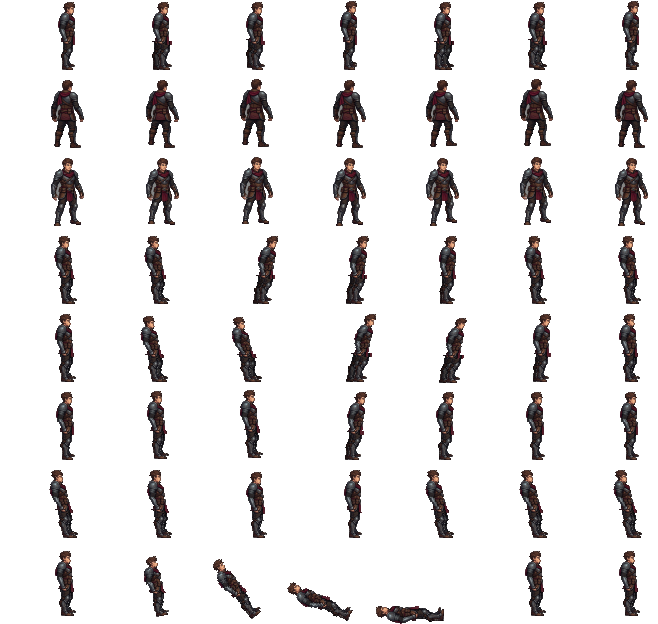
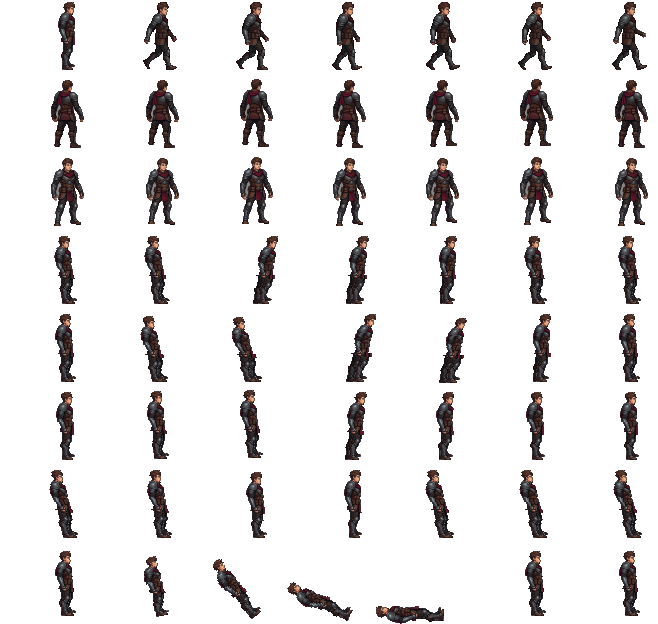
A drawn walk for the Warrior, and the trick that got it
The composed profile walk slid each leg as a rigid block -- no knee, no arm
swing. That was the right trade at 34px, where a knee bend is one pixel of
shading, but at 68px it reads as skating, and no amount of tuning makes a rigid
block walk. Giving the leg a real knee procedurally was tried first and failed
visibly: rotating a chunky 8px boot through 30-46 degrees shreds it, even with a
lossless three-shear, and both legs rotating produced a mess of overlapping feet.

So these six frames are drawn, not composed -- and the way they were got is the
part worth keeping. Generation reliably refuses to choreograph a walk: asked for
walk frames it returns variations of one stance, which is what happened the last
time this was attempted. The fix is the same principle that fixed attack arcs,
applied to legs: hand it the poses instead of asking it to invent them. A
six-frame stick-figure guide with the exact joint angles turns choreography,
which it is bad at, into copying, which it is good at.

The guide is generated from the gait table, near limbs black and far limbs grey,
with each pose dropped until its lower foot touches a common ground line -- so
the pelvis bob falls out of the geometry rather than being a number somebody
guessed.

The design held: same hair, face, pauldron, red scarf, belt pouches and boots,
and the six figures came back within 5px of one height.

Frames are registered on the TORSO rather than the bounding box. A box moves
[…]

diff --git a/tools/build_hero_directions.py b/tools/build_hero_directions.py
@@ -194,6 +194,39 @@ def side_stance(a, hip, hem, pad, size, near=(0, 0), far=(0, 0), body_off=(0, 0)
     ], size, pad)
 
 
+def authored_walk(hero, pad, size):
+    """Six drawn walk frames, if they exist, in place of the composed ones.
+
+    The composed profile walk slides each leg as a rigid block -- no knee, no arm
+    swing. That is a shuffle, and no amount of tuning makes a rigid block walk.
+    Where real frames have been drawn for a hero they are used instead, dropped
+    onto the same canvas and origin as everything else so the rest of the sheet
+    does not care where they came from.
+    """
+    path = f'{SRC}/{hero}_walkside.png'
+    if not os.path.isfile(path):
+        return None
+    im = Image.open(path).convert('RGBA')
+    cw = im.size[0] // 6
+    H, W = size
+    out = []
+    for i in range(6):
+        cell = np.array(im.crop((i * cw, 0, (i + 1) * cw, im.size[1])))
+        f = np.zeros((H, W, 4), np.uint8)
+        ys, xs = np.where(cell[:, :, 3] > 0)
+        # bottom-align on the canvas ground line, centre horizontally
+        oy = (pad + 68 - 1) - ys.max()
+        ox = (W - cw) // 2
+        ny, nx = ys + oy, xs + ox
+        ok = (ny >= 0) & (ny < H) & (nx >= 0) & (nx < W)
+        f[ny[ok], nx[ok]] = cell[ys[ok], xs[ok]]
+        # Drawn frames get the same pinhole repair as composed ones -- a
+        # generated figure can enclose a few transparent pixels between an arm
+        # and the body just as readily as a cut-up one can.
+        out.append(fill_notches(f))
+    return out
+
+
 def side_frames(a, hip, hem, pad, size):
     """Profile: stamp the one drawn leg twice, fore and aft."""
     S = STRIDE
@@ -448,8 +481,12 @@ def build(hero):
     for d in ['side', 'up', 'down']:
         a = art[d]
         size = (a.shape[0] + pad * 2, a.shape[1] + pad * 2)
-        rows.append(('view:' + d,
-                     (side_frames if d == 'side' else frontal_frames)(a, hip, hem, pad, size)))
+        fr = (side_frames if d == 'side' else frontal_frames)(a, hip, hem, pad, size)
+        if d == 'side':
+            drawn = authored_walk(hero, pad, size)
+            if drawn:
+                fr = [fr[0]] + drawn        # keep the artist's idle, swap the walk
+        rows.append(('view:' + d, fr))
     a = art['side']
     size = (a.shape[0] + pad * 2, a.shape[1] + pad * 2)
     for name, spec in ACTIONS.items():
